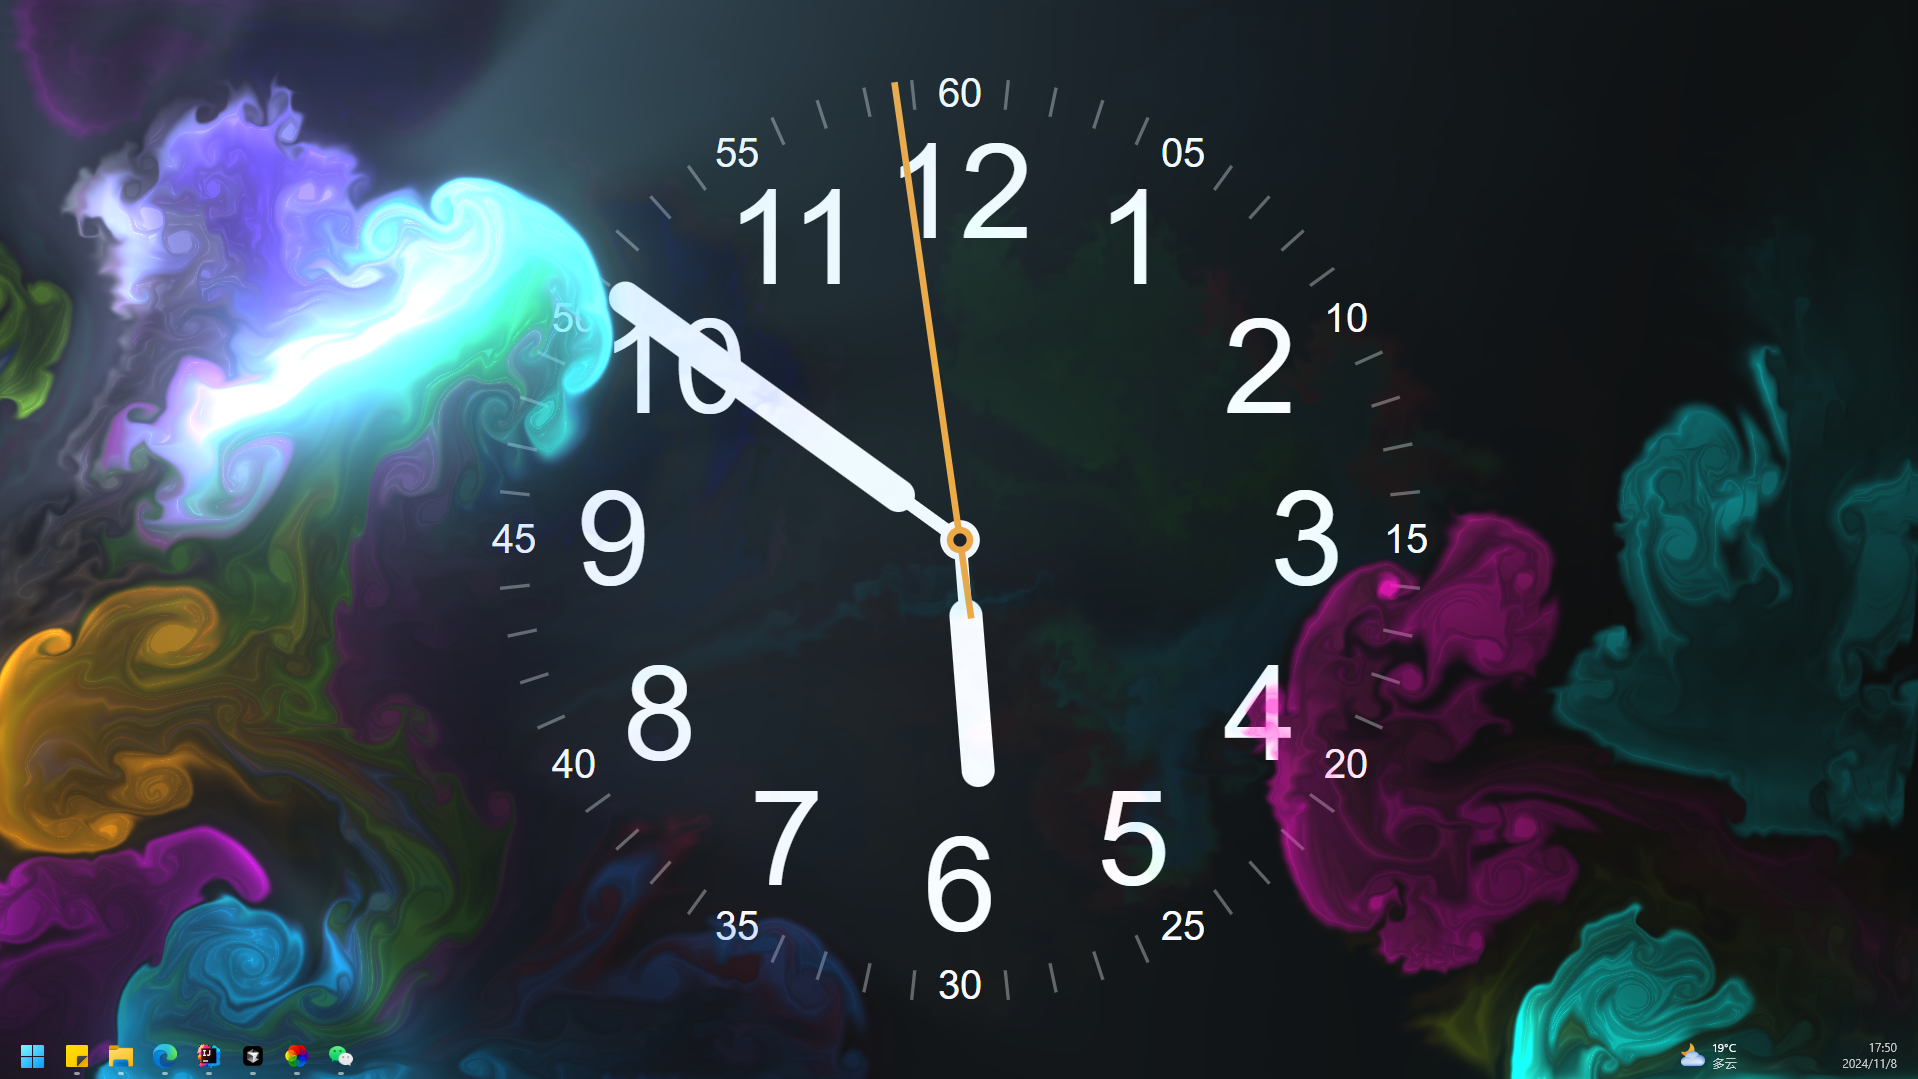
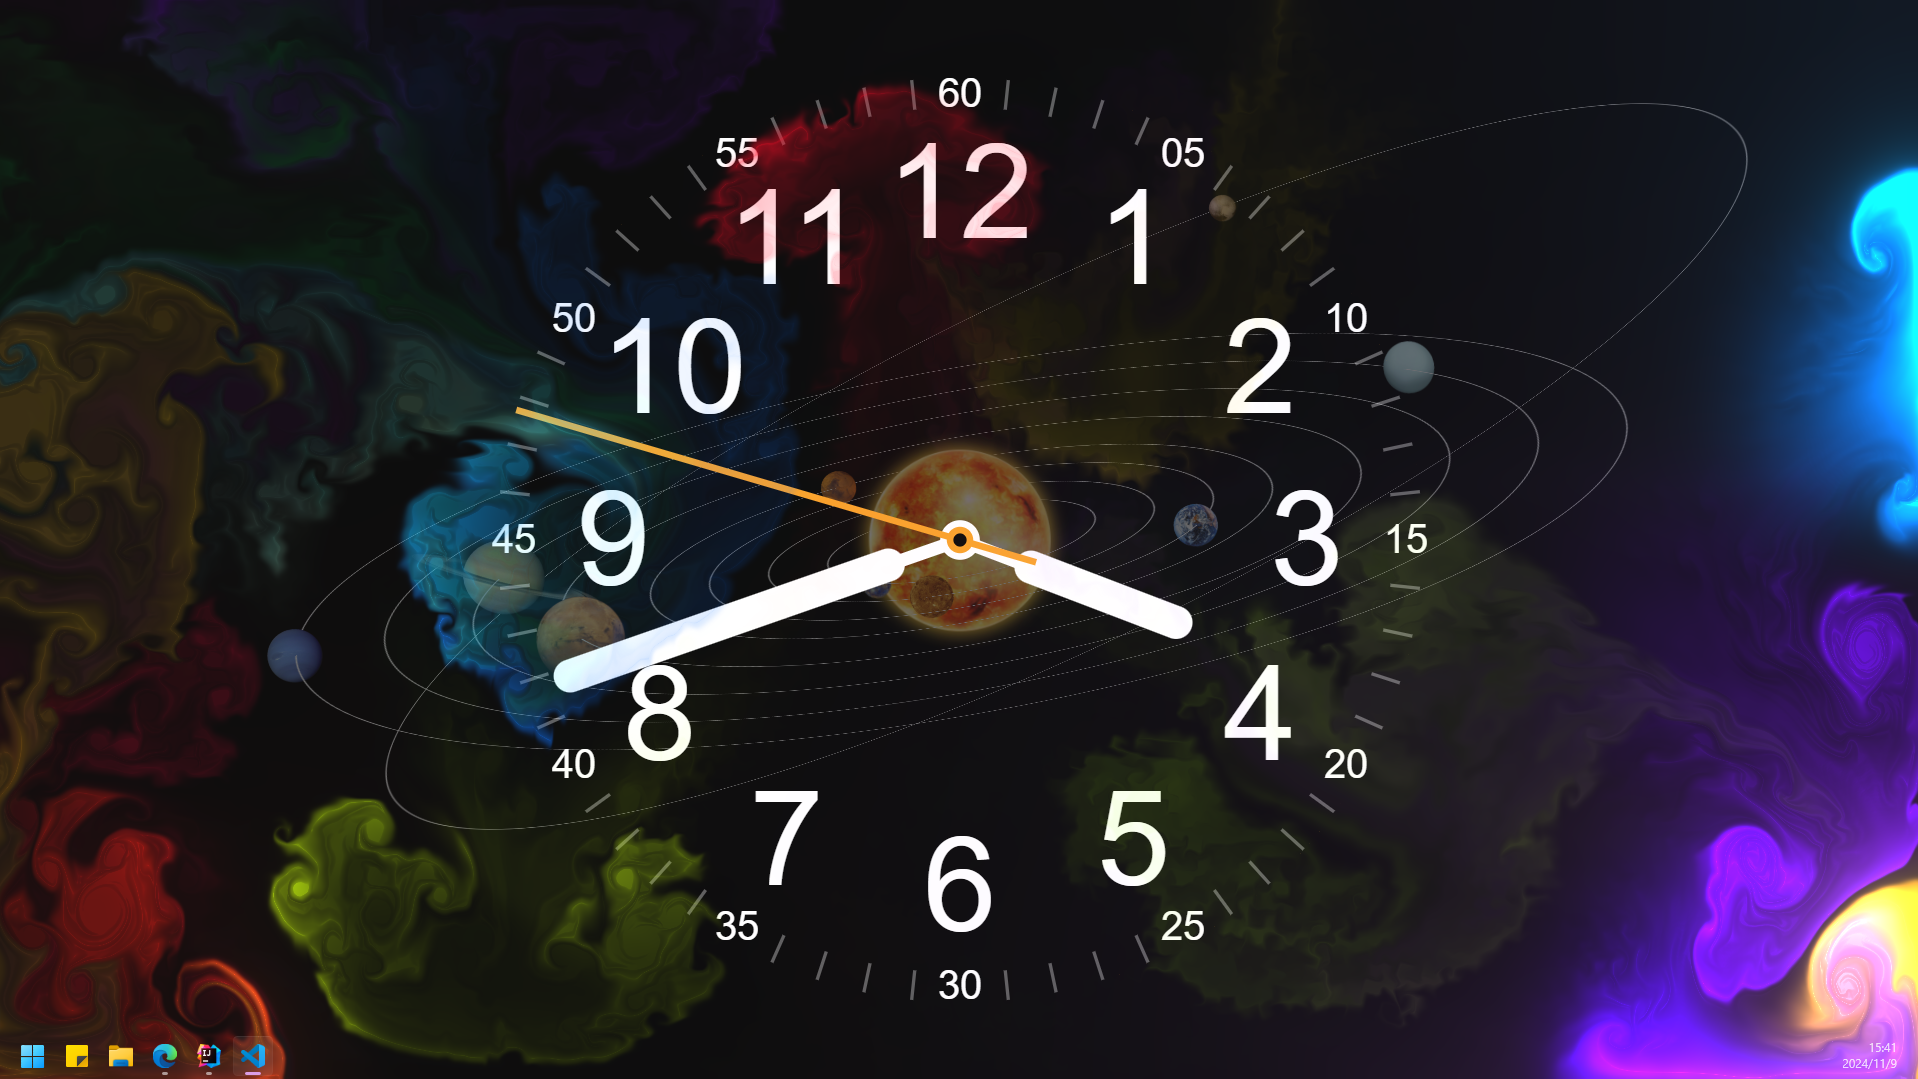
update

diff --git a/README.md b/README.md
@@ -1,17 +1,9 @@
-# WebGL Fluid Simulation
-Modified to work with [lively](https://github.com/rocksdanister/lively) wallpaper system, reacts with system audio.
+# WebGL Fluid Simulation With Clock
 
-Download: [Fluids_v3.zip](https://github.com/rocksdanister/WebGL-Fluid-Simulation/releases/download/v3/Fluids_v3.zip)
+depend on https://github.com/rocksdanister/WebGL-Fluid-Simulation/releases
 
-Drag & drop the file into lively window.
+![screen](./screen.png)
 
-## References
-
-http://developer.download.nvidia.com/books/HTML/gpugems/gpugems_ch38.html
-
-https://github.com/mharrys/fluids-2d
-
-https://github.com/haxiomic/GPU-Fluid-Experiments
 
 ## License
 
